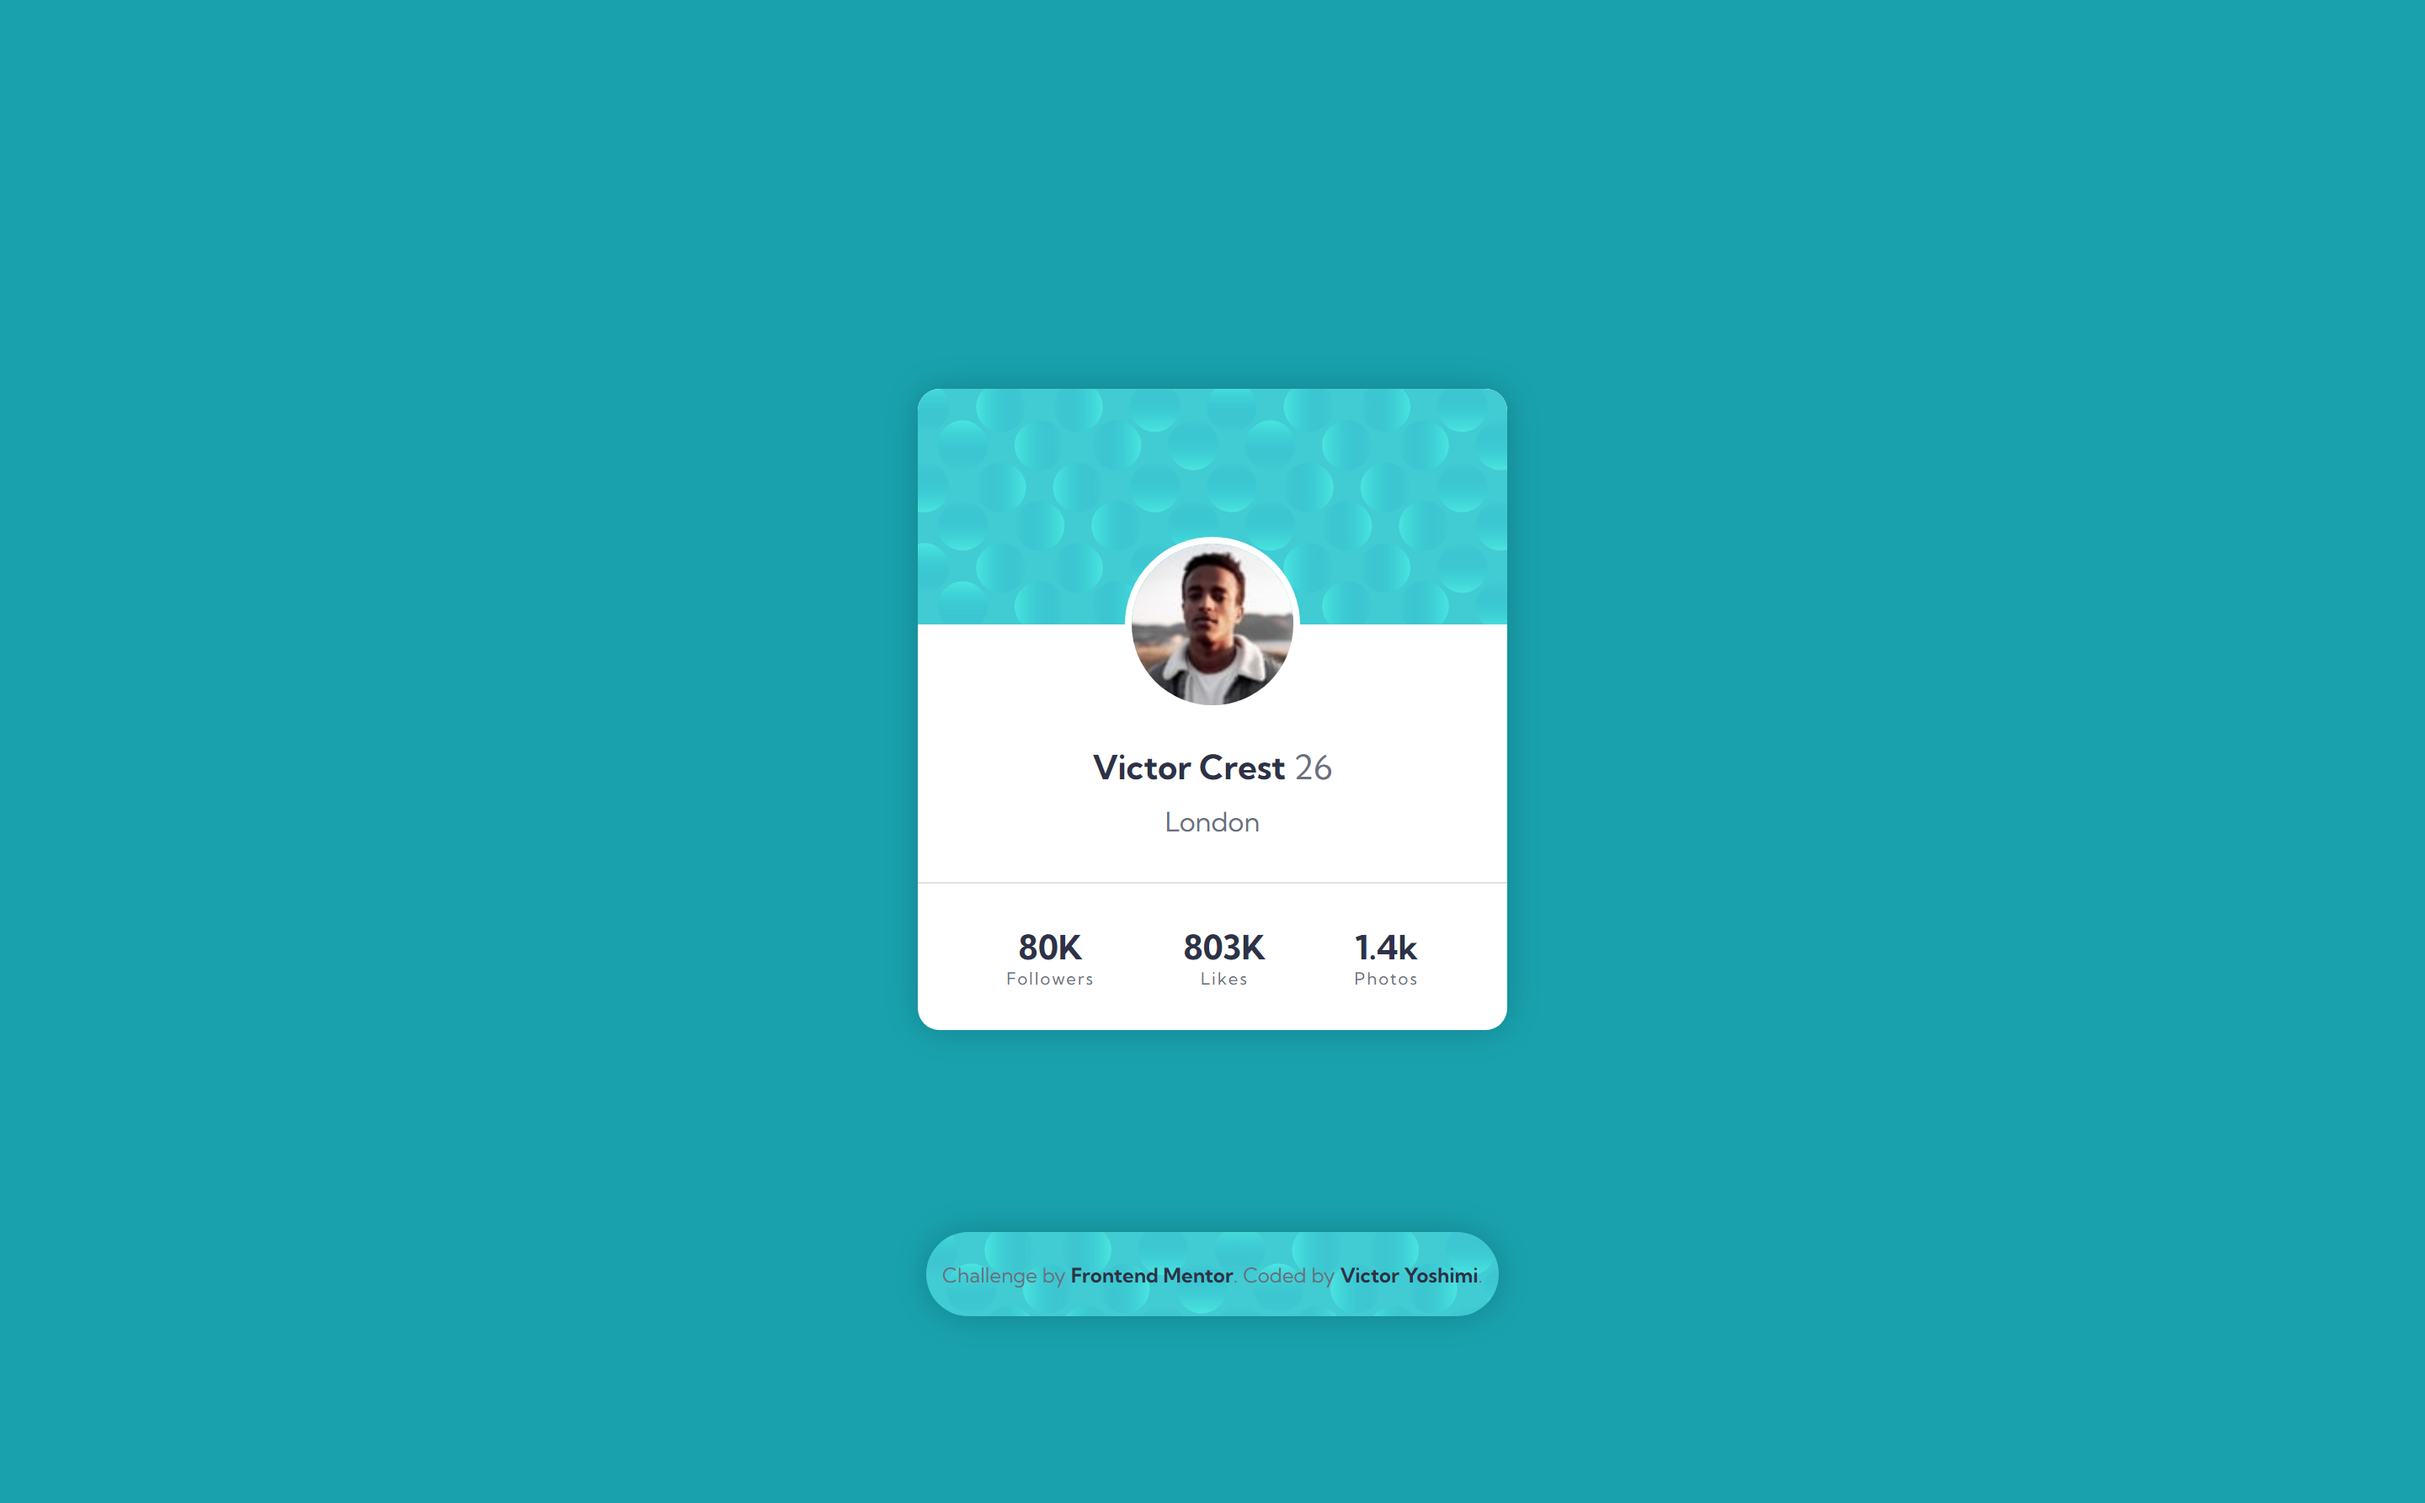
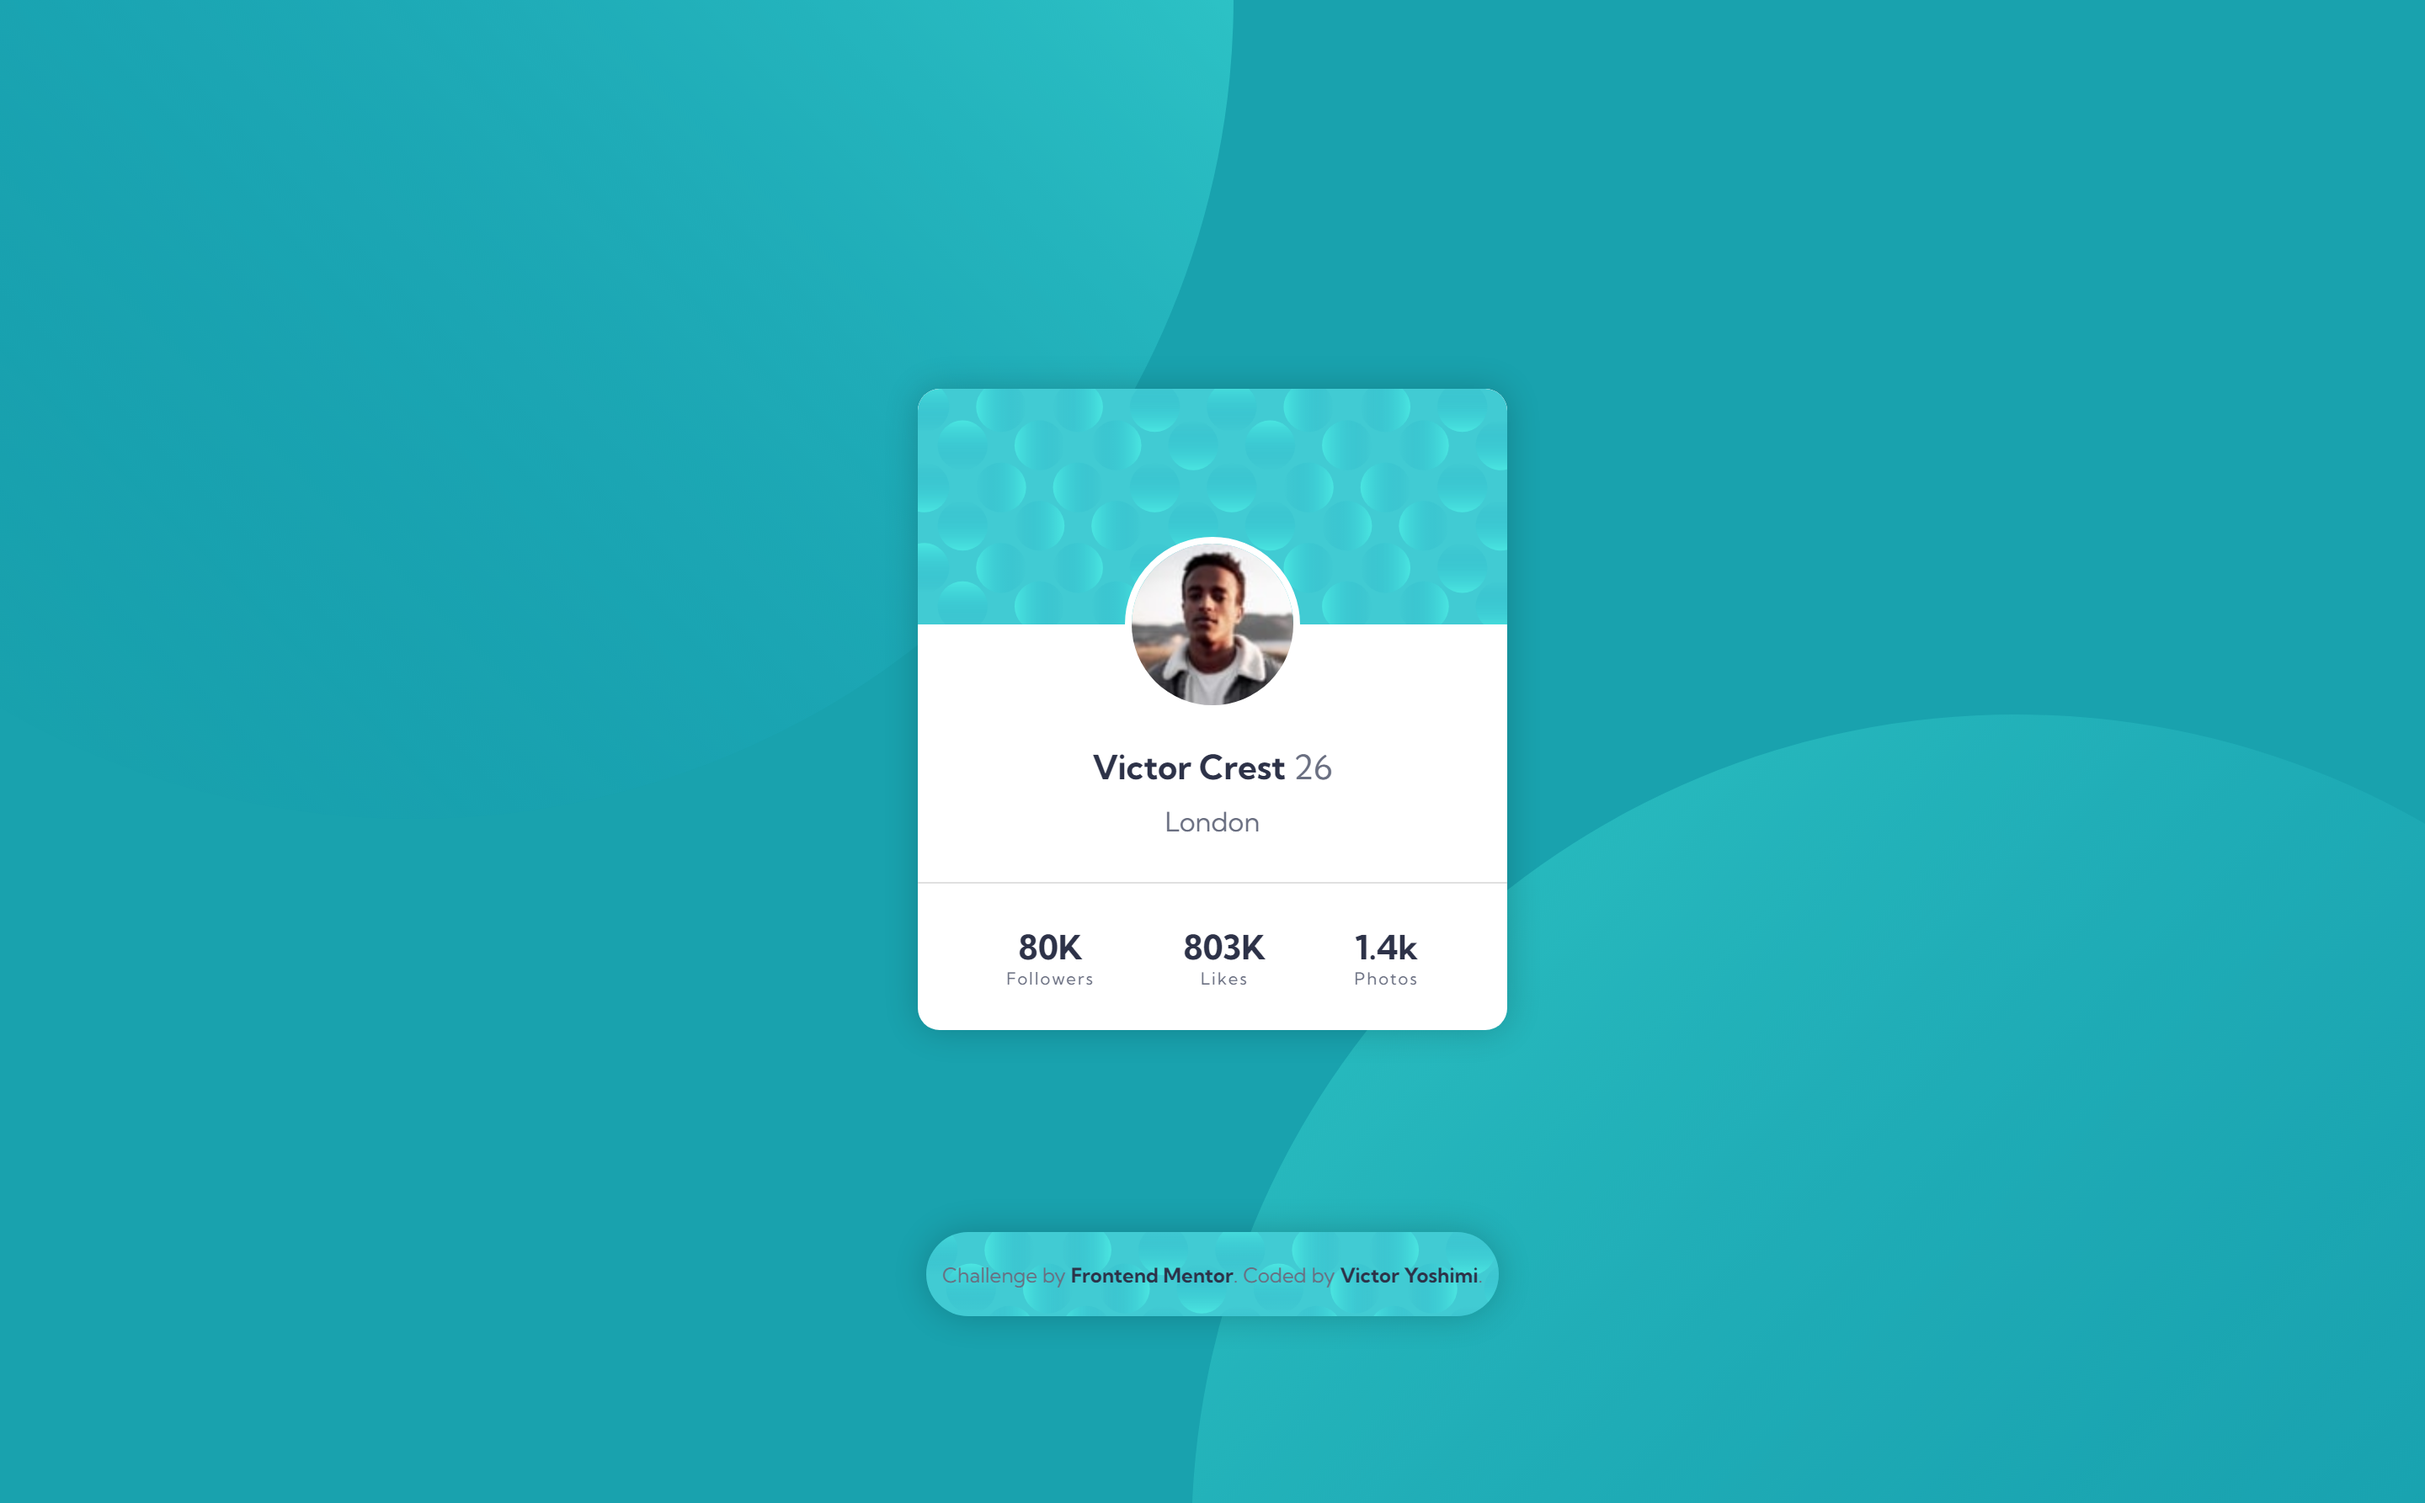
Background edit

Changed region(s): [[0.4062, 0.0, 0.5312, 0.1232]]

diff --git a/style.css b/style.css
@@ -1,3 +1,5 @@
+/* =============================== GERAL =============================== */
+
 * {
   margin: 0;
   padding: 0;
@@ -23,6 +25,8 @@ body {
   align-items: center;
   /* overflow: hidden; */
 }
+
+/* =============================== CARD =============================== */
 
 main {
   width: 35rem;
@@ -99,6 +103,25 @@ h1 {
   letter-spacing: initial;
 }
 
+/* =============================== BG CIRCLES =============================== */
+
+#background img {
+  position: fixed;
+  z-index: -1;
+}
+
+#circleTop {
+  top: -55%;
+  left: -17%;
+}
+
+#circleBot {
+  bottom: -57%;
+  right: -17%;
+}
+
+/* =============================== FOOTER =============================== */
+
 footer {
   background-image: url(images/bg-pattern-card.svg);
   height: 5rem;
@@ -120,6 +143,7 @@ footer a {
   color: var(--very-dark-desaturated-blue);
 }
 
+/* =============================== RESPONSIVITY =============================== */
 
 @media (max-width: 375px) {
   body {
@@ -129,6 +153,21 @@ footer a {
   main {
     width: 33rem;
     margin-block: 10rem;
+  }
+
+  #background img {
+    width: 200%;
+
+  }
+  
+  #circleTop {
+    top: -65%;
+    left: -140%;
+  }
+  
+  #circleBot {
+    bottom: -60%;
+    right: -130%;
   }
 
   footer {

diff --git a/index.html b/index.html
@@ -35,11 +35,11 @@
         <p id="likes"><span id="numbers">803K</span> Likes</p>
         <p id="photos"><span id="numbers">1.4k</span> Photos</p>
       </div>
-      <div id="background">
-        <!-- <img src="images/bg-pattern-top.svg" alt="circle">
-        <img src="images/bg-pattern-bottom.svg" alt="circle"> -->
-      </div>
     </main>
+    <div id="background">
+      <img id="circleTop" src="images/bg-pattern-top.svg" alt="circle" />
+      <img id="circleBot" src="images/bg-pattern-bottom.svg" alt="circle" />
+    </div>
     <footer>
       <p>
         Challenge by
